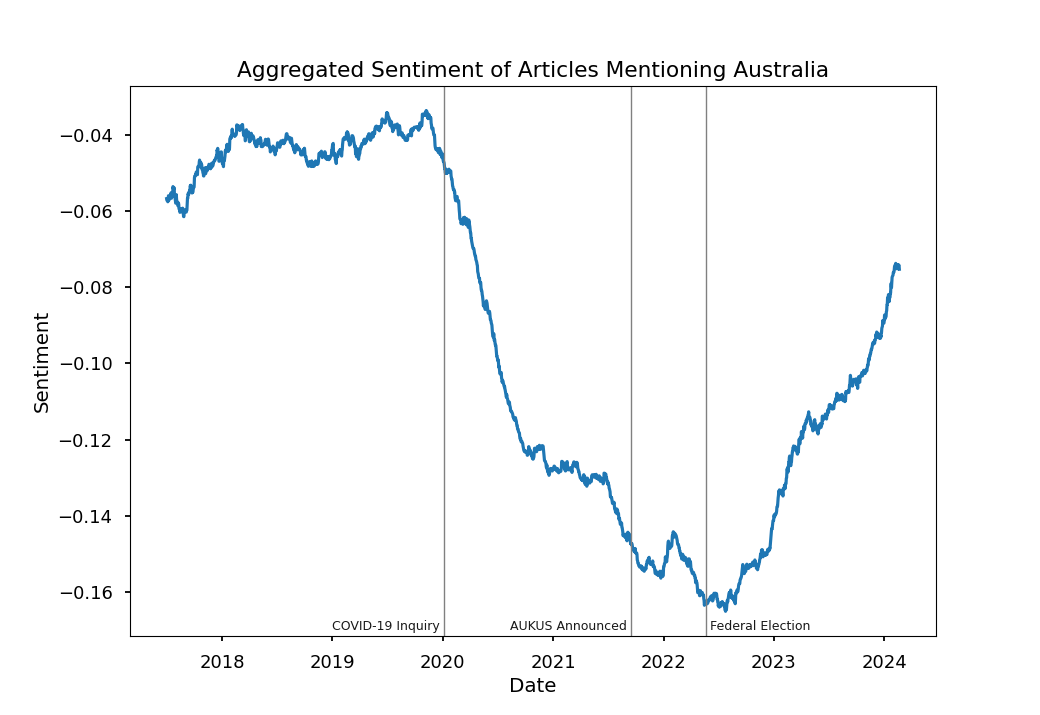
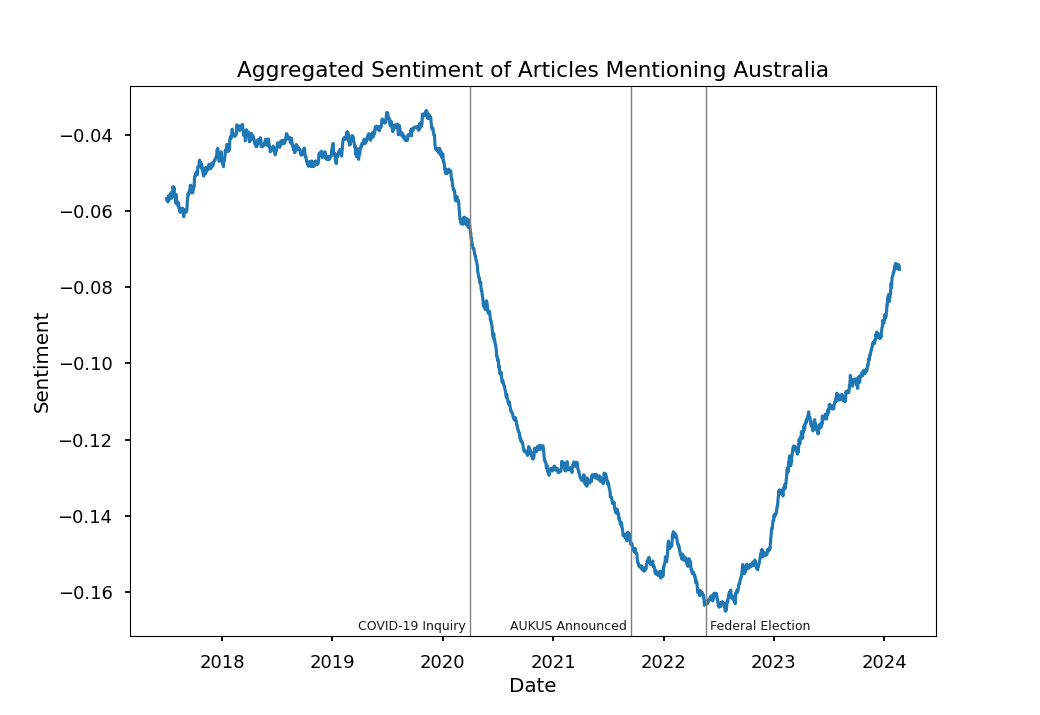
Fixed date issue of COVID-19 Inquiry

Changed region(s): [[0.3077, 0.8615, 0.4615, 0.8923]]

diff --git a/plot.py b/plot.py
@@ -2,6 +2,7 @@ import pandas as pd
 import matplotlib.pyplot as plt
 from matplotlib import dates
 import numpy as np
+import datetime
 
 # Read the JSON file into a Pandas DataFrame
 aus = pd.read_json('data/sentiment/aus.json')
@@ -49,8 +50,8 @@ plt.plot(filtered_daily['ewma_aus'], label='Australia')
 #     plt.annotate(f'Event {event}', (date_num, filtered_daily.loc[date, 'ewma_aus']), textcoords="offset points", xytext=(0,10), ha='center')
 
 # Independent COVID Inquiry
-plt.axvline(x=dates.datestr2num('01/04/2020'), color='gray', linestyle='-', linewidth=1, label='_nolegend_')
-plt.annotate(text = 'COVID-19 Inquiry', xy = (dates.datestr2num('01/04/2020') - 370, -0.17), alpha = 0.9, fontsize=9)
+plt.axvline(x=dates.date2num(datetime.datetime.strptime('01/04/2020', "%d/%m/%Y")), color='gray', linestyle='-', linewidth=1, label='_nolegend_')
+plt.annotate(text = 'COVID-19 Inquiry', xy = (dates.date2num(datetime.datetime.strptime('01/04/2020', "%d/%m/%Y")) - 370, -0.17), alpha = 0.9, fontsize=9)
 
 # AUKUS Announced
 plt.axvline(x=dates.datestr2num('16/09/2021'), color='gray', linestyle='-', linewidth=1, label='_nolegend_')
